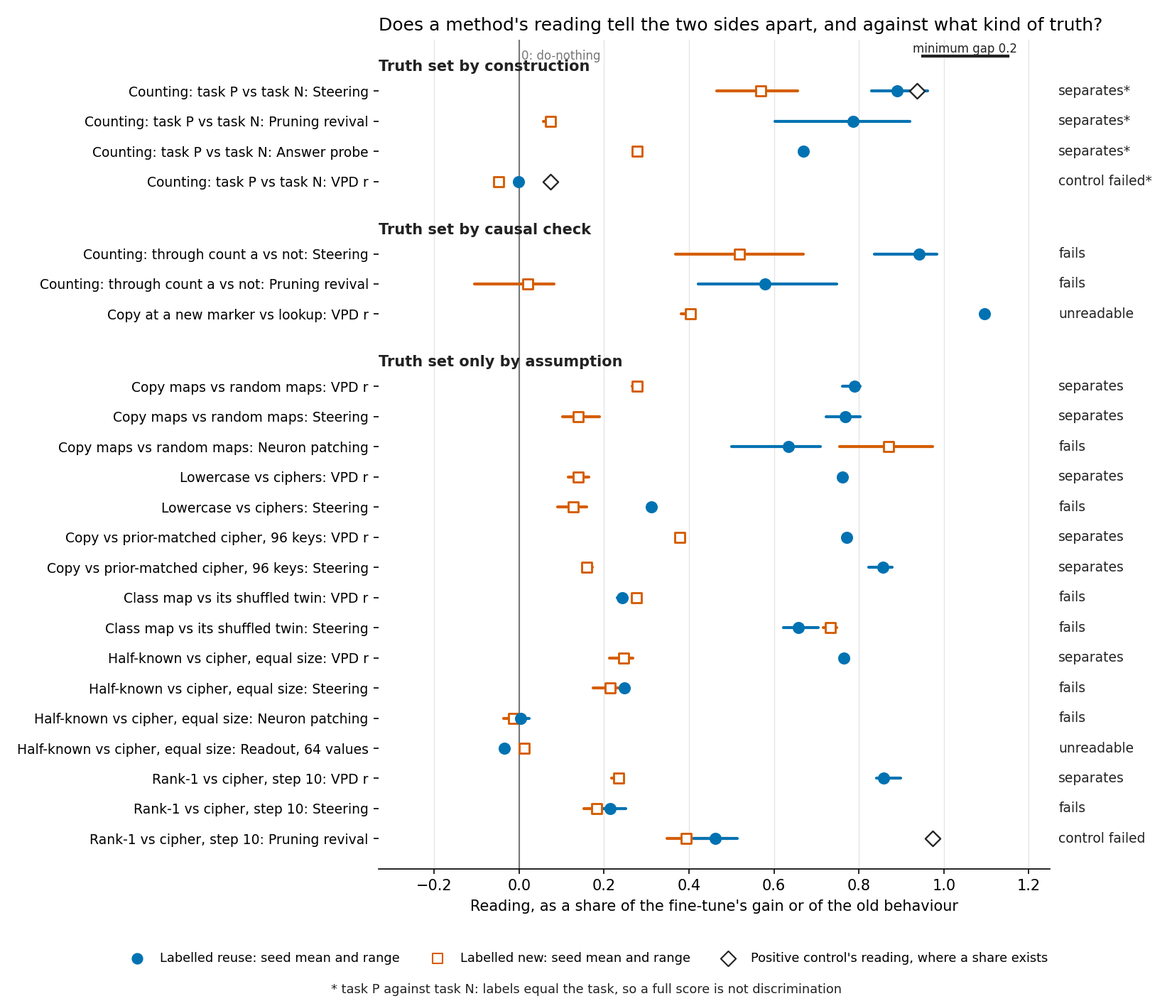
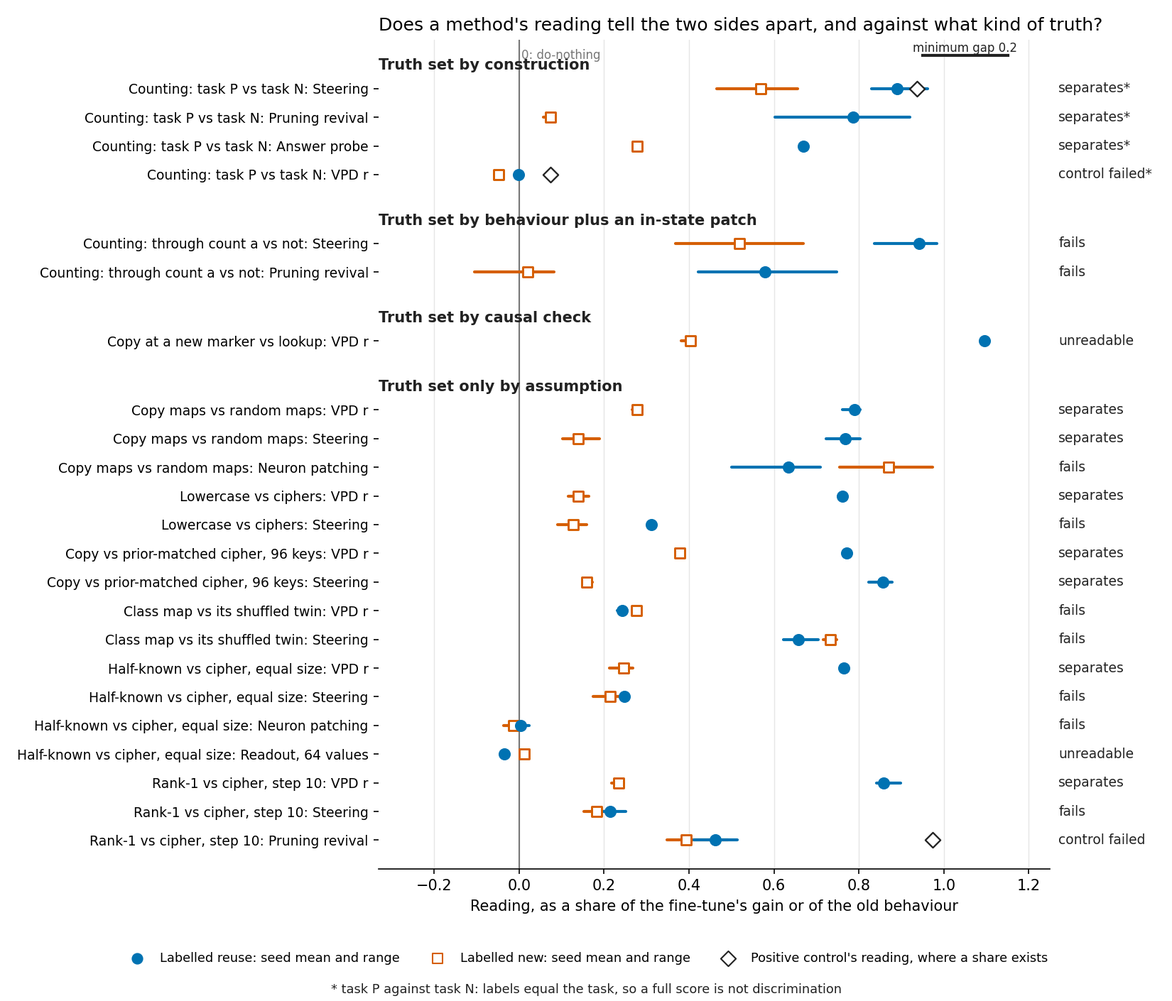
Method table: mark the earlier counting row by behaviour plus an in-state patch, not by causal check; no label moved

diff --git a/docs/research_log/parts/sections/methodtable.html b/docs/research_log/parts/sections/methodtable.html
@@ -10,16 +10,17 @@
 <p><b>How to read a cell.</b> The first line is the verdict. The second gives the reuse side, then the new side, the count labelled right, or the factor between two priors. Hover for the filed verdict, the file and the path; the full record is <code>experiments/method_table/results/table.json</code>. The analysis is <code>reports/analyses/2026-11-02_analysis_method-table.md</code>.</p>
 <p><b>A star marks task P against task N.</b> Those labels equal the task, so any method that responds to the task scores perfectly. 21 of 21 there is not discrimination. VPD's reading there is from a decomposition trained for 400 of 400,000 steps. It labelled all 21 right untrained, so it enters as failing its control and not as a pass. The other counting row keeps the task fixed and varies the label. Its label is tied to the step count, and VPD's reuse side there was never read.</p>
 <p><b>The ports.</b> As ported to the 67M, pruning revival and reverse fine-tuning failed their positive control, so the 21 of 21 does not carry over.</p>
-<p><b>Three kinds of truth.</b> By construction: the fine-tuning task fixes the answer, and each state passed behaviour and patch checks. By causal check: switching off or patching the mechanism is the label; on the copying-heads pair the copy side is not settled as filed. Only by assumption: built to elicit is how the task was built, not the causal label; these pairs have no causal check.</p>
+<p><b>Four kinds of truth.</b> By construction: the fine-tuning task fixes the answer, and each state passed behaviour checks and a patch inside the fine-tuned state. By behaviour plus an in-state patch: the earlier counting states, where the task is fixed and the label varies; the new side rests on behaviour, because the patch reads 0 by construction on a state that does not answer the patched count. By causal check: switching off the original model's mechanism is the label; on the copying-heads pair the copy side is not settled as filed. Only by assumption: built to elicit is how the task was built, not the causal label; these pairs have no causal check.</p>
 </div>
 <p class="legend cmpkey"><span class="lg"><b class="cv y">separates</b></span><span class="lg"><b class="cv n">fails</b></span><span class="lg"><b class="cv p">control failed</b></span><span class="lg"><b class="cv q">unreadable</b></span><span class="lg"><b class="cv u">not run</b></span></p>
 <div class="tblwrap"><table class="cmp">
 <thead><tr><th>Fine-tune</th><th title="Share of the fine-tune&#x27;s log-odds gain that comes from changed causal importances with the original subcomponents&#x27; weights held fixed.">VPD r</th><th title="The gain reached when the original causal importances stand in for the original weights, over the whole gain.">VPD stand-in ratio</th><th title="The original model&#x27;s probability of the trained answer, before any fine-tune.">W0's prior</th><th title="KL from the original model&#x27;s answer distribution to the state&#x27;s, at the answer position.">Distance D</th><th title="Share of the update&#x27;s squared norm in MLP weights.">MLP share</th><th title="Top-10 singular share, intruders and effective rank of the update alone.">Weight statistics</th><th title="One mean residual shift per block, added to the original model; share of the gain it reaches.">Steering</th><th title="The top neurons by activation shift take the fine-tuned activations; share of the gain, and how many neurons reach half.">Neuron patching</th><th title="The original model shown demonstrations of the map in context; share of the gain reached.">Prompting</th><th title="Jain et al.&#x27;s Algorithm 3: remove the units that matter most to the fine-tuned behaviour; share of the old behaviour that returns.">Pruning revival</th><th title="Fine-tune back toward the old behaviour; how fast it returns.">Reverse fine-tuning</th><th title="A linear readout over the pair&#x27;s values, trained on Pile text; share of the gain lost when its direction is removed.">Readout, 64 values</th><th title="The same with a linear readout over every token.">Readout, whole vocabulary</th><th title="Five counts of how few neurons the update or its activation shift sits on.">Neuron sparsity</th><th title="A labeller that reads only the learning rate, the steps or the size of the weight change.">Recipe or size</th><th title="A probe on the original model&#x27;s residual that reads only which answers the state gives.">Answer probe</th></tr></thead>
 <tbody>
 <tr class="grp"><td colspan="17">Truth set by construction</td></tr>
-<tr><td title="Task P answers one more than count a; task N answers count b. 21 scored of 35, seeds 2-4, lr 1e-4 and 1e-5, 1K and 10K steps. Disagreements between task and checks: []">Counting: task P vs task N</td><td class="p" title="21 of 21 at 400 steps; reuse -0.01 to 0.01 vs new -0.06 to -0.04 | filed: outcome &#x27;tie&#x27;, positive_control &#x27;none&#x27; | experiments/pcfg_anchors/results/c2_400step_job48413.json .scored[&quot;c1b/P_1e-4_s2/1000&quot;].r">control failed*<br>21 of 21</td><td class="p" title="21 of 21 at 400 steps; reuse -0.00 to 0.01 vs new -0.06 to -0.03 | filed: outcome &#x27;tie&#x27;, positive_control &#x27;none&#x27; | experiments/pcfg_anchors/results/c2_400step_job48413.json .scored[&quot;c1b/P_1e-4_s2/1000&quot;].ratio">control failed*<br>21 of 21</td><td class="u" title="No source reads this method on this fine-tune.">not run</td><td class="u" title="No source reads this method on this fine-tune.">not run</td><td class="u" title="No source reads this method on this fine-tune.">not run</td><td class="u" title="No source reads this method on this fine-tune.">not run</td><td class="y" title="21 of 21; share reuse 0.83 to 0.96 vs new 0.47 to 0.66 | filed: passes: True | experiments/pcfg_anchors/results/c1b.json .scored[&quot;c1b/P_1e-4_s2/1000&quot;].x.steer">separates*<br>21 of 21</td><td class="u" title="No source reads this method on this fine-tune.">not run</td><td class="u" title="No source reads this method on this fine-tune.">not run</td><td class="y" title="21 of 21; gain share reuse 0.60 to 0.92 vs new 0.06 to 0.08 | filed: passes: True | experiments/pcfg_anchors/results/c1b.json .scored[&quot;c1b/P_1e-4_s2/1000&quot;].x.prune">separates*<br>21 of 21</td><td class="y" title="21 of 21; steps over the scratch model&#x27;s reuse 0.11 to 0.13 vs new 0.41 to 0.65 | filed: passes: True | experiments/pcfg_anchors/results/c1b.json .scored[&quot;c1b/P_1e-4_s2/1000&quot;].x.reverse">separates*<br>21 of 21</td><td class="u" title="No source reads this method on this fine-tune.">not run</td><td class="u" title="No source reads this method on this fine-tune.">not run</td><td class="u" title="No source reads this method on this fine-tune.">not run</td><td class="y" title="21 of 21 by size within a recipe cell; 15 of 21 with one cut-off | filed: nuisance labeller: update_size 15 | experiments/pcfg_anchors/results/c1b.json .train_stops.recipe_ceiling_full.update_size.agree">separates*<br>21 of 21</td><td class="y" title="21 of 21; reuse 0.67 vs new 0.28 | filed: task-identity reference (not scored; not a pass) | experiments/pcfg_anchors/results/c1b.json .scored[&quot;c1b/P_1e-4_s2/1000&quot;].x.probe">separates*<br>21 of 21</td></tr>
+<tr><td title="Task P answers one more than count a; task N answers count b. 21 scored of 35, seeds 2-4, lr 1e-4 and 1e-5, 1K and 10K steps. Disagreements between task and checks: []. The patch check reads inside the fine-tuned state, not from W0, and reads 0 by construction on task N&#x27;s count a, so task N&#x27;s check is behaviour.">Counting: task P vs task N</td><td class="p" title="21 of 21 at 400 steps; reuse -0.01 to 0.01 vs new -0.06 to -0.04 | filed: outcome &#x27;tie&#x27;, positive_control &#x27;none&#x27; | experiments/pcfg_anchors/results/c2_400step_job48413.json .scored[&quot;c1b/P_1e-4_s2/1000&quot;].r">control failed*<br>21 of 21</td><td class="p" title="21 of 21 at 400 steps; reuse -0.00 to 0.01 vs new -0.06 to -0.03 | filed: outcome &#x27;tie&#x27;, positive_control &#x27;none&#x27; | experiments/pcfg_anchors/results/c2_400step_job48413.json .scored[&quot;c1b/P_1e-4_s2/1000&quot;].ratio">control failed*<br>21 of 21</td><td class="u" title="No source reads this method on this fine-tune.">not run</td><td class="u" title="No source reads this method on this fine-tune.">not run</td><td class="u" title="No source reads this method on this fine-tune.">not run</td><td class="u" title="No source reads this method on this fine-tune.">not run</td><td class="y" title="21 of 21; share reuse 0.83 to 0.96 vs new 0.47 to 0.66 | filed: passes: True | experiments/pcfg_anchors/results/c1b.json .scored[&quot;c1b/P_1e-4_s2/1000&quot;].x.steer">separates*<br>21 of 21</td><td class="u" title="No source reads this method on this fine-tune.">not run</td><td class="u" title="No source reads this method on this fine-tune.">not run</td><td class="y" title="21 of 21; gain share reuse 0.60 to 0.92 vs new 0.06 to 0.08 | filed: passes: True | experiments/pcfg_anchors/results/c1b.json .scored[&quot;c1b/P_1e-4_s2/1000&quot;].x.prune">separates*<br>21 of 21</td><td class="y" title="21 of 21; steps over the scratch model&#x27;s reuse 0.11 to 0.13 vs new 0.41 to 0.65 | filed: passes: True | experiments/pcfg_anchors/results/c1b.json .scored[&quot;c1b/P_1e-4_s2/1000&quot;].x.reverse">separates*<br>21 of 21</td><td class="u" title="No source reads this method on this fine-tune.">not run</td><td class="u" title="No source reads this method on this fine-tune.">not run</td><td class="u" title="No source reads this method on this fine-tune.">not run</td><td class="y" title="21 of 21 by size within a recipe cell; 15 of 21 with one cut-off | filed: nuisance labeller: update_size 15 | experiments/pcfg_anchors/results/c1b.json .train_stops.recipe_ceiling_full.update_size.agree">separates*<br>21 of 21</td><td class="y" title="21 of 21; reuse 0.67 vs new 0.28 | filed: task-identity reference (not scored; not a pass) | experiments/pcfg_anchors/results/c1b.json .scored[&quot;c1b/P_1e-4_s2/1000&quot;].x.probe">separates*<br>21 of 21</td></tr>
+<tr class="grp"><td colspan="17">Truth set by behaviour plus an in-state patch</td></tr>
+<tr><td title="26 scored, 15 reuses and 11 new, from Stage A and Amendment 5. Behaviour share and an interchange patch inside the fine-tuned state, not from W0. The patch reads 0 by construction on a state that does not answer count a (a2_N1.json check_count_a), so the new side rests on behaviour.">Counting: through count a vs not</td><td class="u" title="VPD&#x27;s 400-step check read some of this row&#x27;s new states and none of its reuse states.">not run</td><td class="u" title="VPD&#x27;s 400-step check read some of this row&#x27;s new states and none of its reuse states.">not run</td><td class="u" title="No source reads this method on this fine-tune.">not run</td><td class="u" title="No source reads this method on this fine-tune.">not run</td><td class="u" title="No source reads this method on this fine-tune.">not run</td><td class="u" title="No source reads this method on this fine-tune.">not run</td><td class="n" title="21 of 27; reuse 0.84 to 0.98 vs new 0.37 to 0.67 | filed: passes: False; per run 16 of 18, passes: True | experiments/pcfg_anchors/results/c1.json .scores.steer.all.agree">fails<br>21 of 27</td><td class="u" title="No source reads this method on this fine-tune.">not run</td><td class="u" title="No source reads this method on this fine-tune.">not run</td><td class="n" title="20 of 26; reuse 0.42 to 0.75 vs new -0.11 to 0.08 | filed: passes: False; per run 14 of 17, passes: True | experiments/pcfg_anchors/results/c1.json .scores.prune.all.agree">fails<br>20 of 26</td><td class="n" title="17 of 26 | filed: passes: False; per run 12 of 17, passes: False | experiments/pcfg_anchors/results/c1.json .scores.reverse.all.agree">fails<br>17 of 26</td><td class="u" title="No source reads this method on this fine-tune.">not run</td><td class="u" title="No source reads this method on this fine-tune.">not run</td><td class="u" title="No source reads this method on this fine-tune.">not run</td><td class="n" title="19 of 26 by learning rate; 18 of 26 by steps | filed: passes: False | experiments/pcfg_anchors/results/c1.json .scores.nuisance_slow.all.agree">fails<br>19 of 26</td><td class="u" title="No source reads this method on this fine-tune.">not run</td></tr>
 <tr class="grp"><td colspan="17">Truth set by causal check</td></tr>
-<tr><td title="26 scored, 15 reuses and 11 new, from Stage A and Amendment 5. Behaviour share and interchange patch.">Counting: through count a vs not</td><td class="u" title="VPD&#x27;s 400-step check read some of this row&#x27;s new states and none of its reuse states.">not run</td><td class="u" title="VPD&#x27;s 400-step check read some of this row&#x27;s new states and none of its reuse states.">not run</td><td class="u" title="No source reads this method on this fine-tune.">not run</td><td class="u" title="No source reads this method on this fine-tune.">not run</td><td class="u" title="No source reads this method on this fine-tune.">not run</td><td class="u" title="No source reads this method on this fine-tune.">not run</td><td class="n" title="21 of 27; reuse 0.84 to 0.98 vs new 0.37 to 0.67 | filed: passes: False; per run 16 of 18, passes: True | experiments/pcfg_anchors/results/c1.json .scores.steer.all.agree">fails<br>21 of 27</td><td class="u" title="No source reads this method on this fine-tune.">not run</td><td class="u" title="No source reads this method on this fine-tune.">not run</td><td class="n" title="20 of 26; reuse 0.42 to 0.75 vs new -0.11 to 0.08 | filed: passes: False; per run 14 of 17, passes: True | experiments/pcfg_anchors/results/c1.json .scores.prune.all.agree">fails<br>20 of 26</td><td class="n" title="17 of 26 | filed: passes: False; per run 12 of 17, passes: False | experiments/pcfg_anchors/results/c1.json .scores.reverse.all.agree">fails<br>17 of 26</td><td class="u" title="No source reads this method on this fine-tune.">not run</td><td class="u" title="No source reads this method on this fine-tune.">not run</td><td class="u" title="No source reads this method on this fine-tune.">not run</td><td class="n" title="19 of 26 by learning rate; 18 of 26 by steps | filed: passes: False | experiments/pcfg_anchors/results/c1.json .scores.nuisance_slow.all.agree">fails<br>19 of 26</td><td class="u" title="No source reads this method on this fine-tune.">not run</td></tr>
 <tr><td title="6, seeds 0-2, step 30. The copy side is not settled as filed: copy_reading &#x27;mixed&#x27;, pair_ignored True. The lookup side is labelled on every seed. Labels as filed, seeds 0-2: copy old, old, between; lookup new, new, new. Share lost: copy 0.47 to 0.56 against a bar of 0.5, lookup -0.00 to 0.00.">Copy at a new marker vs lookup</td><td class="q" title="unscored: copy 1.09 to 1.10 vs lookup 0.38 to 0.42 | filed: r_scored False; verdict &#x27;copy_not_elicitation&#x27; | experiments/induction_cue/results/run.json .score.r_copy">unreadable<br>1.09 to 1.10 / 0.38 to 0.42</td><td class="u" title="No source reads this method on this fine-tune.">not run</td><td class="n" title="copy 3.15e-04 vs lookup 2.39e-04, a factor 1.32 | experiments/induction_cue/results/run.json .stage_b.prior_copy">fails<br>a factor 1.32</td><td class="u" title="No source reads this method on this fine-tune.">not run</td><td class="u" title="No source reads this method on this fine-tune.">not run</td><td class="u" title="No source reads this method on this fine-tune.">not run</td><td class="u" title="No source reads this method on this fine-tune.">not run</td><td class="u" title="No source reads this method on this fine-tune.">not run</td><td class="u" title="No source reads this method on this fine-tune.">not run</td><td class="u" title="No source reads this method on this fine-tune.">not run</td><td class="u" title="No source reads this method on this fine-tune.">not run</td><td class="u" title="No source reads this method on this fine-tune.">not run</td><td class="u" title="No source reads this method on this fine-tune.">not run</td><td class="u" title="No source reads this method on this fine-tune.">not run</td><td class="y" title="copy 4.57 to 4.62 vs lookup 5.45 to 5.50 | experiments/induction_cue/results/run.json .states.copy_s0.norm">separates<br>4.57 to 4.62 / 5.45 to 5.50</td><td class="u" title="No source reads this method on this fine-tune.">not run</td></tr>
 <tr class="grp"><td colspan="17">Truth set only by assumption</td></tr>
 <tr><td title="8, E12&#x27;s recipe, two tables each, seeds 0-1. Only by assumption: built to elicit is how the task was built, not the causal label of decisions.md rows 112 and 114; these pairs have no causal check.">Copy maps vs random maps</td><td class="y" title="copy 0.76 to 0.80 vs random 0.27 to 0.29 | experiments/regating_truth_table/results/table.json .runs[&quot;e46/ident32_s0&quot;].r.value">separates<br>0.76 to 0.80 / 0.27 to 0.29</td><td class="y" title="copy 0.87 to 0.97 vs random 0.36 to 0.41 | experiments/regating_truth_table/results/table.json .runs[&quot;e46/ident32_s0&quot;].ratio.value">separates<br>0.87 to 0.97 / 0.36 to 0.41</td><td class="u" title="No source reads this method on this fine-tune.">not run</td><td class="u" title="No source reads this method on this fine-tune.">not run</td><td class="u" title="No source reads this method on this fine-tune.">not run</td><td class="y" title="effective rank, mean 440 vs 415 | filed: erank separates: True; share: False; intruders: False | experiments/baseline_weights/results/results.json .score.erank.gap">separates<br>effective rank, mean 440 vs 415</td><td class="y" title="copy 0.72 to 0.80 vs random 0.10 to 0.19 | filed: P3 pass, gap 0.628; P5 fails | experiments/baseline_neurons/results/baseline_neurons.json .b3[&quot;ident32_s0&quot;].S">separates<br>0.72 to 0.80 / 0.10 to 0.19</td><td class="n" title="half the gain only at all 12288 neurons; full width copy 0.50 to 0.71 vs random 0.76 to 0.97 | filed: P1 fails, P2 fails | experiments/baseline_neurons/results/baseline_neurons.json .b2[&quot;ident32_s0&quot;].shares[&quot;12288&quot;]">fails<br>0.50 to 0.71 / 0.76 to 0.97</td><td class="n" title="16 demonstrations: copy 0.10 to 0.12 vs random 0.13 to 0.14; 31 beside the query: 0.22 vs 0.18 to 0.19 | filed: P4 reversed; amendment fails, band &#x27;mechanism only&#x27; | experiments/baseline_neurons/results/baseline_neurons.json .b4.shares[&quot;ident32_s0&quot;][&quot;16&quot;]">fails<br>0.22 / 0.18 to 0.19</td><td class="u" title="No source reads this method on this fine-tune.">not run</td><td class="u" title="No source reads this method on this fine-tune.">not run</td><td class="u" title="No source reads this method on this fine-tune.">not run</td><td class="u" title="No source reads this method on this fine-tune.">not run</td><td class="n" title="0 of 5 numbers pass this test: none; ident32 vs rand32 only | filed: none answers yes: write up; an elicit/new gap under T1 only is reported as a progress effect | experiments/neuron_sparsity/results/score.json .rows.W1.T3_B.pass">fails<br>0 of 5</td><td class="n" title="copy 0.68 to 0.69 vs random 0.75 to 1.34 | experiments/baseline_weights/results/results.json .states.ident32_s0.per_matrix">fails<br>0.68 to 0.69 / 0.75 to 1.34</td><td class="u" title="No source reads this method on this fine-tune.">not run</td></tr>

diff --git a/experiments/method_table/build.py b/experiments/method_table/build.py
@@ -228,7 +228,9 @@ def counting_c1b() -> dict[str, Any]:
             "states": "Task P answers one more than count a; task N answers count b. 21 scored of 35, seeds 2-4, lr 1e-4 and 1e-5, 1K and 10K steps",
             "truth": {"how": "by construction", "source_said": "by construction: the fine-tuning task, plus the behaviour "
                       "and patch checks each state passed", "changed": False,
-                      "detail": f"Disagreements between task and checks: {load(C1B)['train_stops']['all_disagreements']}",
+                      "detail": f"Disagreements between task and checks: {load(C1B)['train_stops']['all_disagreements']}. "
+                                "The patch check reads inside the fine-tuned state, not from W0, and reads 0 by "
+                                "construction on task N's count a, so task N's check is behaviour.",
                       "pointer": f"{C1B} .train_stops.all_disagreements"},
             "evidence_beside": "No held-out reading.", "cells": cells}
 
@@ -268,8 +270,10 @@ def counting_c1() -> dict[str, Any]:
     cells["ratio"] = not_run("VPD's 400-step check read some of this row's new states and none of its reuse states.")
     return {"id": "counting_c1", "name": "Counting: through count a vs not", "model": "3M minGPT",
             "states": "26 scored, 15 reuses and 11 new, from Stage A and Amendment 5",
-            "truth": {"how": "by causal check", "source_said": "Two causal checks from Stage A label each state", "changed": False,
-                      "detail": "Behaviour share and interchange patch.", "pointer": f"{C1} .truth.scored; {R_C1}"},
+            "truth": {"how": "by behaviour plus an in-state patch", "source_said": "Two causal checks from Stage A label each state", "changed": True,
+                      "detail": ("Behaviour share and an interchange patch inside the fine-tuned state, not from W0. The patch reads "
+                                 "0 by construction on a state that does not answer count a (a2_N1.json check_count_a), so the new "
+                                 "side rests on behaviour."), "pointer": f"{C1} .truth.scored; {R_C1}"},
             "evidence_beside": "No held-out reading.", "cells": cells}
 
 
@@ -699,7 +703,7 @@ def fill(row: dict[str, Any]) -> dict[str, Any]:
 
 def write_section(table: dict[str, Any]) -> None:
     cls = {"separates": "y", "fails": "n", "control failed": "p", "unreadable": "q", "not run": "u"}
-    groups = {"by construction": [], "by causal check": [], "only by assumption": []}
+    groups = {"by construction": [], "by behaviour plus an in-state patch": [], "by causal check": [], "only by assumption": []}
     for row in table["rows"]:
         groups[row["truth"]["how"]].append(row)
     head = "".join(f'<th title="{html.escape(METHODS[m][1])}">{METHODS[m][0]}</th>' for m in METHODS)
@@ -745,7 +749,7 @@ SECTION_TEMPLATE = """<section id="methodtable">
 <p><b>How to read a cell.</b> The first line is the verdict. The second gives the reuse side, then the new side, the count labelled right, or the factor between two priors. Hover for the filed verdict, the file and the path; the full record is <code>experiments/method_table/results/table.json</code>. The analysis is <code>reports/analyses/2026-11-02_analysis_method-table.md</code>.</p>
 <p><b>A star marks task P against task N.</b> Those labels equal the task, so any method that responds to the task scores perfectly. 21 of 21 there is not discrimination. VPD's reading there is from a decomposition trained for 400 of 400,000 steps. It labelled all 21 right untrained, so it enters as failing its control and not as a pass. The other counting row keeps the task fixed and varies the label. Its label is tied to the step count, and VPD's reuse side there was never read.</p>
 <p><b>The ports.</b> As ported to the 67M, pruning revival and reverse fine-tuning failed their positive control, so the 21 of 21 does not carry over.</p>
-<p><b>Three kinds of truth.</b> By construction: the fine-tuning task fixes the answer, and each state passed behaviour and patch checks. By causal check: switching off or patching the mechanism is the label; on the copying-heads pair the copy side is not settled as filed. Only by assumption: built to elicit is how the task was built, not the causal label; these pairs have no causal check.</p>
+<p><b>Four kinds of truth.</b> By construction: the fine-tuning task fixes the answer, and each state passed behaviour checks and a patch inside the fine-tuned state. By behaviour plus an in-state patch: the earlier counting states, where the task is fixed and the label varies; the new side rests on behaviour, because the patch reads 0 by construction on a state that does not answer the patched count. By causal check: switching off the original model's mechanism is the label; on the copying-heads pair the copy side is not settled as filed. Only by assumption: built to elicit is how the task was built, not the causal label; these pairs have no causal check.</p>
 </div>
 <p class="legend cmpkey"><span class="lg"><b class="cv y">separates</b></span><span class="lg"><b class="cv n">fails</b></span><span class="lg"><b class="cv p">control failed</b></span><span class="lg"><b class="cv q">unreadable</b></span><span class="lg"><b class="cv u">not run</b></span></p>
 <div class="tblwrap"><table class="cmp">

diff --git a/reports/analyses/2026-11-02_analysis_method-table.md b/reports/analyses/2026-11-02_analysis_method-table.md
@@ -16,10 +16,11 @@ Not yet. The decomposition's reading follows how most pairs were built, but not 
 
 Each row is a pair of fine-tunes, one on the reuse side and one on the new side. Each column is a method. Each cell gives the method's reading, its reference, whether its positive control held on that fine-tune, and one verdict. The verdicts are separates, fails, control failed, unreadable and not run. A cell with no reading says not run, and 139 of the 224 cells do.
 
-Three kinds of truth mark the rows. Under `decisions.md`, elicitation is mechanistic, the causal check is the label, and a held-out reading is only evidence.
+Four kinds of truth mark the rows. Under `decisions.md`, elicitation is mechanistic, the causal check is the label, and a held-out reading is only evidence.
 
-- **By construction.** The fine-tuning task fixes the answer, and each state also passed behaviour and patch checks. This is task P against task N.
-- **By causal check.** Patching the old count or switching off the old copying head is the label. These are the earlier counting states and the copying-heads pair, whose copy side is not settled as filed.
+- **By construction.** The fine-tuning task fixes the answer, and each state also passed behaviour checks and a patch inside the fine-tuned state. This is task P against task N.
+- **By behaviour plus an in-state patch.** The earlier counting states, where the task is fixed and the label varies. The new side rests on behaviour, because the patch reads 0 by construction on a state that does not answer the patched count (`a2_N1.json`, `check_count_a`, confirmed 2026-11-02). Marked "by causal check" until then; no label moved.
+- **By causal check.** Switching off the original model's copying head is the label. This is the copying-heads pair, whose copy side is not settled as filed.
 - **Only by assumption.** Built to elicit is how the task was built, not the causal label; these pairs have no causal check. Those are all the other small-model pairs.
 
 The methods, in a line each:
@@ -133,7 +134,7 @@ Each section is one row, built from `table.json`. A star marks task P against ta
 | about | |
 |---|---|
 | states | 26 scored, 15 reuses and 11 new, from Stage A and Amendment 5; model 3M minGPT |
-| truth | by causal check: Behaviour share and interchange patch. |
+| truth | by behaviour plus an in-state patch: Behaviour share and an interchange patch inside the fine-tuned state, not from W0. The patch reads 0 by construction on a state that does not answer count a (a2_N1.json check_count_a), so the new side rests on behaviour. |
 | beside it | No held-out reading. |
 
 | method | reading | reference | positive control | verdict | filed, as filed | pointer |

diff --git a/docs/research_log/PENDING.md b/docs/research_log/PENDING.md
@@ -8,3 +8,4 @@ clerk: find it in the changelog rather than re-adding it (friction 84, 117).
 A flush applies every line to `parts/` (README.md → Layout), rebuilds, republishes, and moves the lines to the changelog row it writes, leaving this list empty.
 
 - 2026-11-02 baseline-lead · reports/plans/2026-11-02_plan_e65-harder-counting.md, reports/plans/2026-11-02_advice_e65-review-FABLE.md · card decision-e65-or-stage-b (new, pending), next · the plan for the harder counting test is drafted and reviewed, not approved. New card, cold-reader form: run E65 with Fable's changes (ranks cheap methods on a causal truth anchored at the unchanged model; VPD cannot win it; $0, 3.5-6 h debug) or plan the interchange patch on the 67M first (gives the 67M rows a causal label, where VPD already has readings, so VPD can be compared with cheaper methods). Recommendation: the patch first. Fable's check also confirmed that Stage A's patch reads 0 by construction on new-count states, so 'new' there rests on behaviour; no label moves.
+- 2026-11-02 baseline-lead · reports/analyses/2026-11-02_analysis_method-table.md, experiments/method_table/results/table.json, docs/research_log/parts/sections/methodtable.html · method table section, its figure (fig/methodtable_shares.png from experiments/method_table/figures/shares.png) · the earlier counting row moves from "by causal check" to a fourth kind, "by behaviour plus an in-state patch": the patch reads inside the fine-tuned state and reads 0 by construction on a state that does not answer the patched count (a2_N1.json), so the new side rests on behaviour. No label and no verdict moved. The section file is already rebuilt; check any prose elsewhere in the log that calls these counting labels causal.
